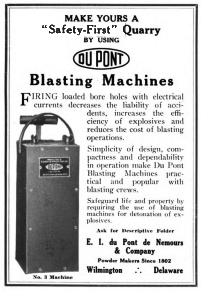
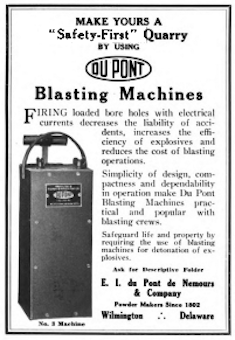
updated photo

diff --git a/reskeywords.md b/reskeywords.md
@@ -44,7 +44,7 @@ The majority of articles after 1910 focus more on how to provide safety than in 
 This change around the language of safety can be seen in the journal beyond articles that discuss safety directly, particularly in accident reporting and advertisements. "Notes from Quarry and Shop," the section in early issues of *Stone* devoted to miscellaneous news items, is filled with small reports of unusual accidents and reports on the outcomes of litigation of cases where widows and injured men sued employers for negligence. These "unusual" accident reports for the most part disappear by 1912 and are replaced by tables of statistics on all accidents within the industry as compiled in reports by the U.S. Bureau of Mines and the Bureau of Labor Statistics. Articles discussing specific accidents in the late 1910s and 1920s primarily focus on analyzing what went wrong and how to prevent similar accidents from occurring in the future. Advertisements also increasingly tout the safety features of their products from the 1910s-1920s. For example, this 1917 advertisement for DuPont Blasting Machines uses the "Safety-First" slogan and notes its product can "safeguard life and property." This advertisement is only one of many that uses safety vocabulary as part of marketing copy in later issues.[8]
 
 <p align="center">
-<img width="460" height="300" src="/assets/img/dupontblastingmachine.png">
+<img width="235" height="340" src="/assets/img/dupontblastingmachine.png">
 </p>
 
 #### Health and Environment
